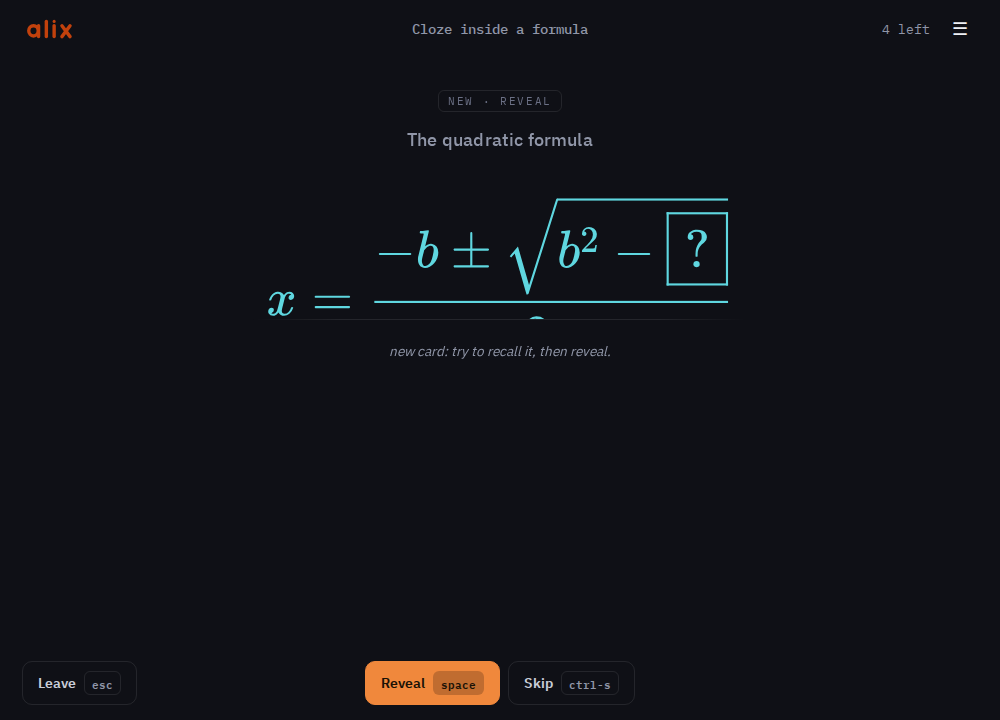
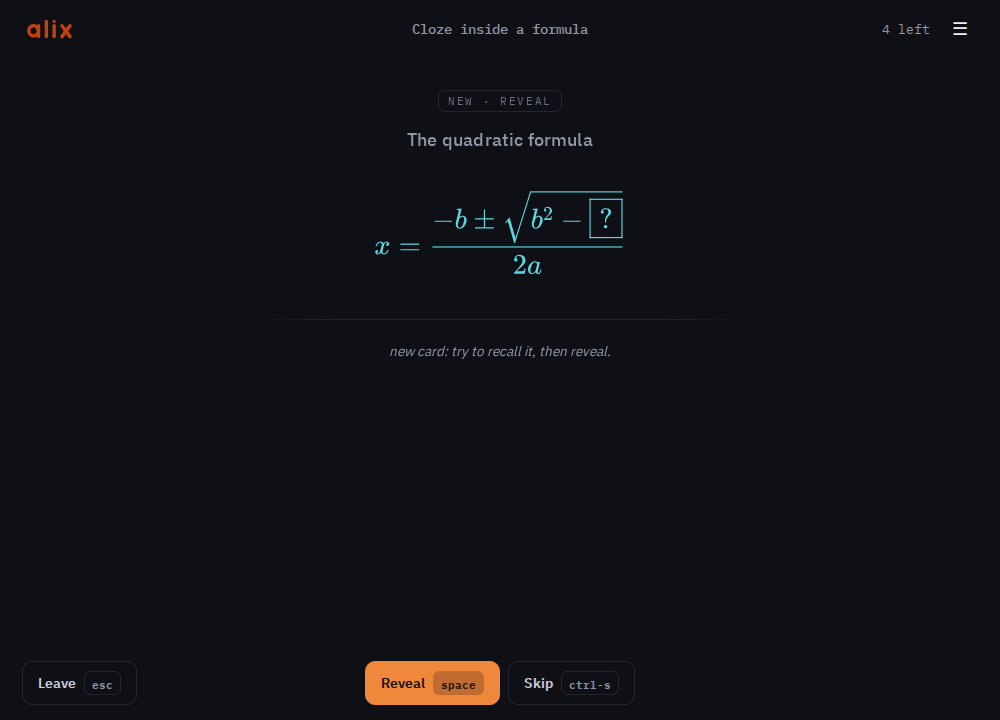
fix(web): a display formula fits the capped question region; close docs-audit round 9
The ninth docs-audit round found four things and could not settle a fifth.
All four verified against the code:

- The formula-cloze example's description and the doctor CHANGELOG entry
  promised a sketched formula span without naming the client; the desktop
  web app serves the typed check. Both now say mobile.
- RELEASING.md's crates.io step listed a partial include allowlist; it now
  matches Cargo.toml (assets/decks, assets/licenses, NOTICE included).
- Site shot 6's canned prediction answered checkpoint 4 under checkpoint
  1's question; the recipe now answers the checkpoint the walk opens on,
  and the shot is recaptured.
- Codex's ninth pass (same commit): the chapter 6 and CHANGELOG claims that
  an authored input: always wins are false for input: draw on desktop web,
  whose effectiveDraw rejects every context-carrying card first. Qualified.

The fifth, the clipped denominator in the example image, reproduces with
the current code: the renderer's SVG is complete (measured), and the adult
question region (max-height 38% of the card, scrollbar hidden, no edge
fade) cut it. renderCard now calls fitQuestion after filling the region:
a display formula's max-height is set to its drawn height minus the
region's overflow (40px floor), and the region toggles the answer
region's fade classes on overflow and scroll. A Playwright regression
routes a browse card whose context carries the fixture's quadratic
formula flagged as display math at 1000x600 and asserts the svg stays
[…]

Changed region(s): [[0.372, 0.275, 0.744, 0.4278], [0.279, 0.3972, 0.341, 0.4278]]

diff --git a/e2e/tests/adult-math.spec.ts b/e2e/tests/adult-math.spec.ts
@@ -1,5 +1,5 @@
 import { test, expect } from "./helpers";
-import { openApp } from "./helpers";
+import { adultDeckRow, openApp } from "./helpers";
 
 test.beforeEach(async ({ page, request }) => {
   await request.post("/api/deselect", { data: {} });
@@ -199,4 +199,43 @@ test("adult card surfaces render shared math SVGs safely", async ({ page, reques
   await page.locator(".math-audit").screenshot({ path: testInfo.outputPath("adult-light.png") });
   await page.evaluate(() => { document.documentElement.dataset.theme = "dark"; });
   await page.locator(".math-audit").screenshot({ path: testInfo.outputPath("adult-dark.png") });
+});
+
+test("a tall display formula on the question side scales into the capped question region", async ({ page, request }) => {
+  await page.setViewportSize({ width: 1000, height: 600 });
+  const browseResponse = await request.post("/api/browse", {
+    data: { deck: "animals/math.md" },
+  });
+  expect(browseResponse.ok(), await browseResponse.text()).toBeTruthy();
+  const browse = await browseResponse.json();
+  const explain = browse.cards.find((card: any) => card.front.includes("Explain the quadratic formula"));
+  const inlineRun = explain?.back_runs?.[0]?.find((run: any) => run.math?.svg);
+  expect(inlineRun, "the fixture must carry the quadratic formula as a rendered math run").toBeTruthy();
+  // The same SVG serves inline and display math; flagging it display puts the
+  // fraction on the question side as a block, taller than the capped region.
+  const formula = { ...inlineRun, math: { ...inlineRun.math, display: true } };
+  const card = { ...explain, context: [inlineRun.text], context_runs: [[formula]], context_units: [] };
+  await page.route("**/api/browse", (route) =>
+    route.fulfill({ json: { cards: [card], label: "tall formula" } }),
+  );
+  const errors: string[] = [];
+  page.on("pageerror", (error) => errors.push(String(error)));
+  page.on("console", (message) => { if (message.type() === "error") errors.push(message.text()); });
+  await request.post("/api/deselect", { data: {} });
+  await openApp(page);
+  await expect(page.locator(".deckrow").first(), errors.join("\n")).toBeVisible();
+  await adultDeckRow(page, "Animals").click();
+  await adultDeckRow(page, "Math").hover();
+  await page.keyboard.press("b");
+
+  const question = page.locator(".region.q");
+  const svg = question.locator(".math-display svg");
+  await expect(svg).toBeVisible();
+  const region = await question.boundingBox();
+  const drawn = await svg.boundingBox();
+  expect(region && drawn, "the question region and its formula must lay out").toBeTruthy();
+  expect(
+    drawn!.y + drawn!.height,
+    `formula bottom ${drawn!.y + drawn!.height} must not pass the question region's bottom ${region!.y + region!.height}`,
+  ).toBeLessThanOrEqual(region!.y + region!.height);
 });

diff --git a/web/alix/review/study.js b/web/alix/review/study.js
@@ -351,6 +351,7 @@ export function createStudy({
     if (cardId) card.id = cardId;
     const q = el("div", "region q");
     if (leftAlign) q.style.textAlign = "left";
+    q.addEventListener("scroll", () => updateQuestionFade(q));
     card.appendChild(q);
     card.appendChild(el("div", "divider"));
     const a = el("div", "region a" + (withNote ? " withnote" : ""));
@@ -416,6 +417,7 @@ export function createStudy({
       appendContext(q, c.context, c.context_runs, c.context_units, undefined, contextDiagram);
     }
     appendImages(q, c.images);
+    fitQuestion(q);
 
     // The answer region (id="ansRegion") is filled by fillBottom(); the note region
     // and its divider are added only once the note is shown (see setNote); the answer
@@ -456,6 +458,7 @@ export function createStudy({
       appendContext(q, c.context, c.context_runs, c.context_units, undefined, browseDiagram);
     }
     appendImages(q, c.images);
+    fitQuestion(q);
 
     const sec = el("div", "reveal" + (leftAlignAnswer(c) ? " list" : ""));
     if (isReshapedList(c)) appendFullAnswer(sec, c, true);
@@ -666,6 +669,24 @@ export function createStudy({
     let n = 0;
     lns.forEach(ln => { if (ln.getBoundingClientRect().top >= foldY - 4) n++; });
     return n;
+  }
+
+  function fitQuestion(q) {
+    const formulas = q.querySelectorAll(".math-display svg");
+    formulas.forEach((svg) => { svg.style.maxHeight = ""; });
+    formulas.forEach((svg) => {
+      const overflow = q.scrollHeight - q.clientHeight;
+      if (overflow <= 0) return;
+      const room = svg.getBoundingClientRect().height - overflow;
+      svg.style.maxHeight = Math.max(40, Math.round(room)) + "px";
+    });
+    updateQuestionFade(q);
+  }
+
+  function updateQuestionFade(q) {
+    const hints = overflowHints(q);
+    q.classList.toggle("fade-top", hints.showTop);
+    q.classList.toggle("fade-bottom", hints.showBottom);
   }
 
   function updateFade(a) {

diff --git a/CHANGELOG.md b/CHANGELOG.md
@@ -362,7 +362,8 @@ adheres to [Semantic Versioning](https://semver.org/spec/v2.0.0.html).
 - `alix doctor` warns when a formula span pinned to `input: type` hides a
   LaTeX command, because the span's hidden text is the expected answer and
   typing `\pm` asks for the spelling of `\pm`. Without an authored `input:`,
-  a formula span is sketched rather than typed.
+  a formula span is sketched rather than typed on mobile; the desktop web
+  app still serves the typed check.
 
 - Deck authoring has a written rule for which card shape suits which
   material, and one worked example per shape. `docs/include/card-shapes.md`
@@ -928,6 +929,12 @@ adheres to [Semantic Versioning](https://semver.org/spec/v2.0.0.html).
   prescribed a rewrite is removed.
 
 ### Fixed
+- A display formula on the question side of an adult web card scales to the
+  room the question region leaves it, and the region shows the answer
+  region's edge fade when content still overflows. The region is capped at a
+  share of the card and hides its scrollbar, so a tall masked formula at a
+  short window lost its denominator with nothing to say so; the shipped
+  formula-cloze example image showed exactly that.
 
 - The desktop entry written by `install-desktop.sh` no longer describes
   alix as a trainer "for the terminal"; bare `alix` opens the local web
@@ -1647,8 +1654,9 @@ adheres to [Semantic Versioning](https://semver.org/spec/v2.0.0.html).
   because the hole's content is the expected answer and a formula's piece
   has no keyboard spelling. The mobile client honors the default; the
   desktop web app still serves the typed check. An `input:` written on the
-  card or the deck still wins: the rule only fills in where nothing was
-  authored.
+  card or the deck wins over the default on mobile, since the rule only fills
+  in where nothing was authored; the desktop web app currently ignores
+  `input: draw` on a cloze card.
 
 - A formula span whose hidden text sits directly against the next token
   renders again. In a derivative ending `nx^{...}`, a `blank: span` hiding

diff --git a/RELEASING.md b/RELEASING.md
@@ -153,8 +153,9 @@ at. **crates.io is not automated.**
    publishing job runs, so green checks on other bytes cannot authorize a
    release. Then it creates the GitHub Release and attaches the binaries.
 9. **Publish to crates.io (manual):** `cargo publish` (the package stays lean via
-   `Cargo.toml`'s `include` allowlist: only `src/**`, `web/**`, and the
-   root README/CHANGELOG/licenses ship). `make package-check` (also run inside
+   `Cargo.toml`'s `include` allowlist: `src/**`, `web/**`, `assets/decks/**`,
+   `assets/licenses/**`, and the root README, CHANGELOG, the two license
+   files, and NOTICE ship). `make package-check` (also run inside
    `preflight`) asserts nothing untracked leaks into the tarball; eyeball
    `cargo package --list` too if unsure. Publish is irreversible.
 10. **Verify reach.** The `pages` workflow redeploys `alix.study` + the mdBook on

diff --git a/docs/examples/syntax/math-cloze.md b/docs/examples/syntax/math-cloze.md
@@ -3,9 +3,10 @@ title: "Cloze inside a formula"
 description: >-
   A `blank: span` directive works on a formula line, inline or displayed.
   The hidden span is a piece of the formula, so what is asked is the
-  step, not the sentence around it. A formula span is sketched at review
-  rather than typed, so even a symbol like `\pm` can be hidden; the span
-  must be a complete structural unit of the formula.
+  step, not the sentence around it. On mobile a formula span is sketched
+  at review rather than typed, so even a symbol like `\pm` can be hidden;
+  the desktop web app still serves the typed check. The span must be a
+  complete structural unit of the formula.
 id: "deck-12x3e6yg9qkhxfjwgg9q4gwp7x"
 ---
 

diff --git a/docs/book/src/06-cloze-direction-images.md b/docs/book/src/06-cloze-direction-images.md
@@ -46,7 +46,9 @@ cut from its arguments (`\frac{a}` without its `{b}`) is a loud error
 naming the cut. At review a formula span **defaults to the sketch canvas on
 mobile**, since a formula's piece has no keyboard spelling (the desktop web
 app does not honor the default yet and types it); write `input: type` on the
-card or the deck to keep the keyboard, and an authored `input:` always wins.
+card or the deck to keep the keyboard. An authored `input:` wins over the
+default on mobile; the desktop web app currently ignores `input: draw` on a
+cloze card and types it regardless.
 `alix doctor` warns when a typed span's answer would need LaTeX to type.
 
 ### A note for one blank
